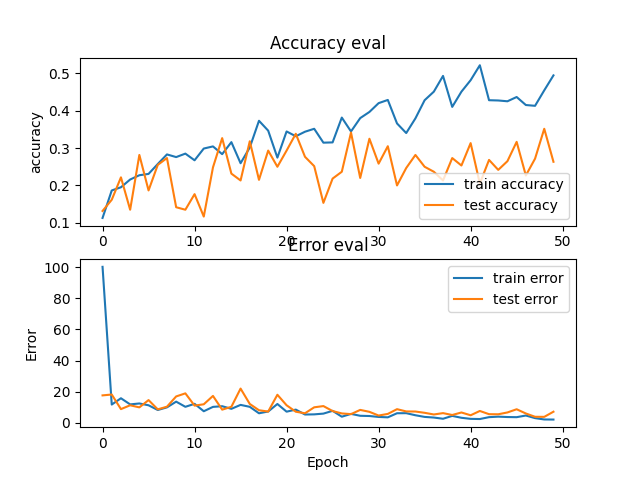
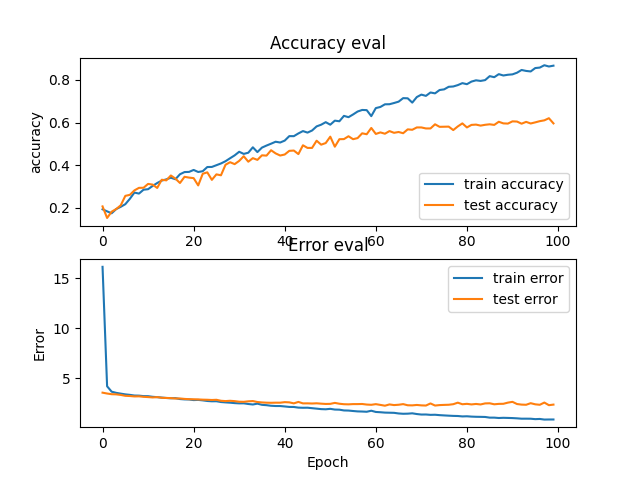
configured settings to optimize machine learning

diff --git a/genre_classifier.py b/genre_classifier.py
@@ -59,19 +59,20 @@ if __name__ == '__main__':
     model = keras.Sequential([
         keras.layers.Flatten(input_shape=(inputs.shape[1], inputs.shape[2])),
         keras.layers.Dense(512, activation='relu', kernel_regularizer=keras.regularizers.l2(0.001)),
-        keras.layers.Dropout(0.3),
+        keras.layers.Dropout(0.1),
         keras.layers.Dense(256, activation='relu', kernel_regularizer=keras.regularizers.l2(0.001)),
-        keras.layers.Dropout(0.3),
+        keras.layers.Dropout(0.1),
         keras.layers.Dense(64, activation='relu', kernel_regularizer=keras.regularizers.l2(0.001)),
-        keras.layers.Dropout(0.3),
+        keras.layers.Dropout(0.1),
         keras.layers.Dense(10, activation='softmax'),
     ])
+
 
     optimizer = keras.optimizers.Adam(learning_rate=0.0001)
     model.compile(optimizer=optimizer, loss='sparse_categorical_crossentropy', metrics=['accuracy'])
     model.summary()
 
-    history = model.fit(inputs_train, targets_train, validation_data=(inputs_test, targets_test), batch_size=32, epochs=50)
+    history = model.fit(inputs_train, targets_train, validation_data=(inputs_test, targets_test), batch_size=32, epochs=100)
 
     #plot the accuracy and error vs epoch
     plot_history(history)

diff --git a/data.py b/data.py
@@ -11,7 +11,7 @@ SAMPLE_RATE = 22050
 DURATION = 30
 SAMPLES_PER_TRACK = SAMPLE_RATE * DURATION
 
-def save_mfcc(dataset_path, json_path, n_mfcc=13, n_fft=20, hop_length=512, num_segments=2) :
+def save_mfcc(dataset_path, json_path, n_mfcc=13, n_fft=2048, hop_length=512, num_segments=7) :
     
     # make dictionary to store data
     song_data = {
